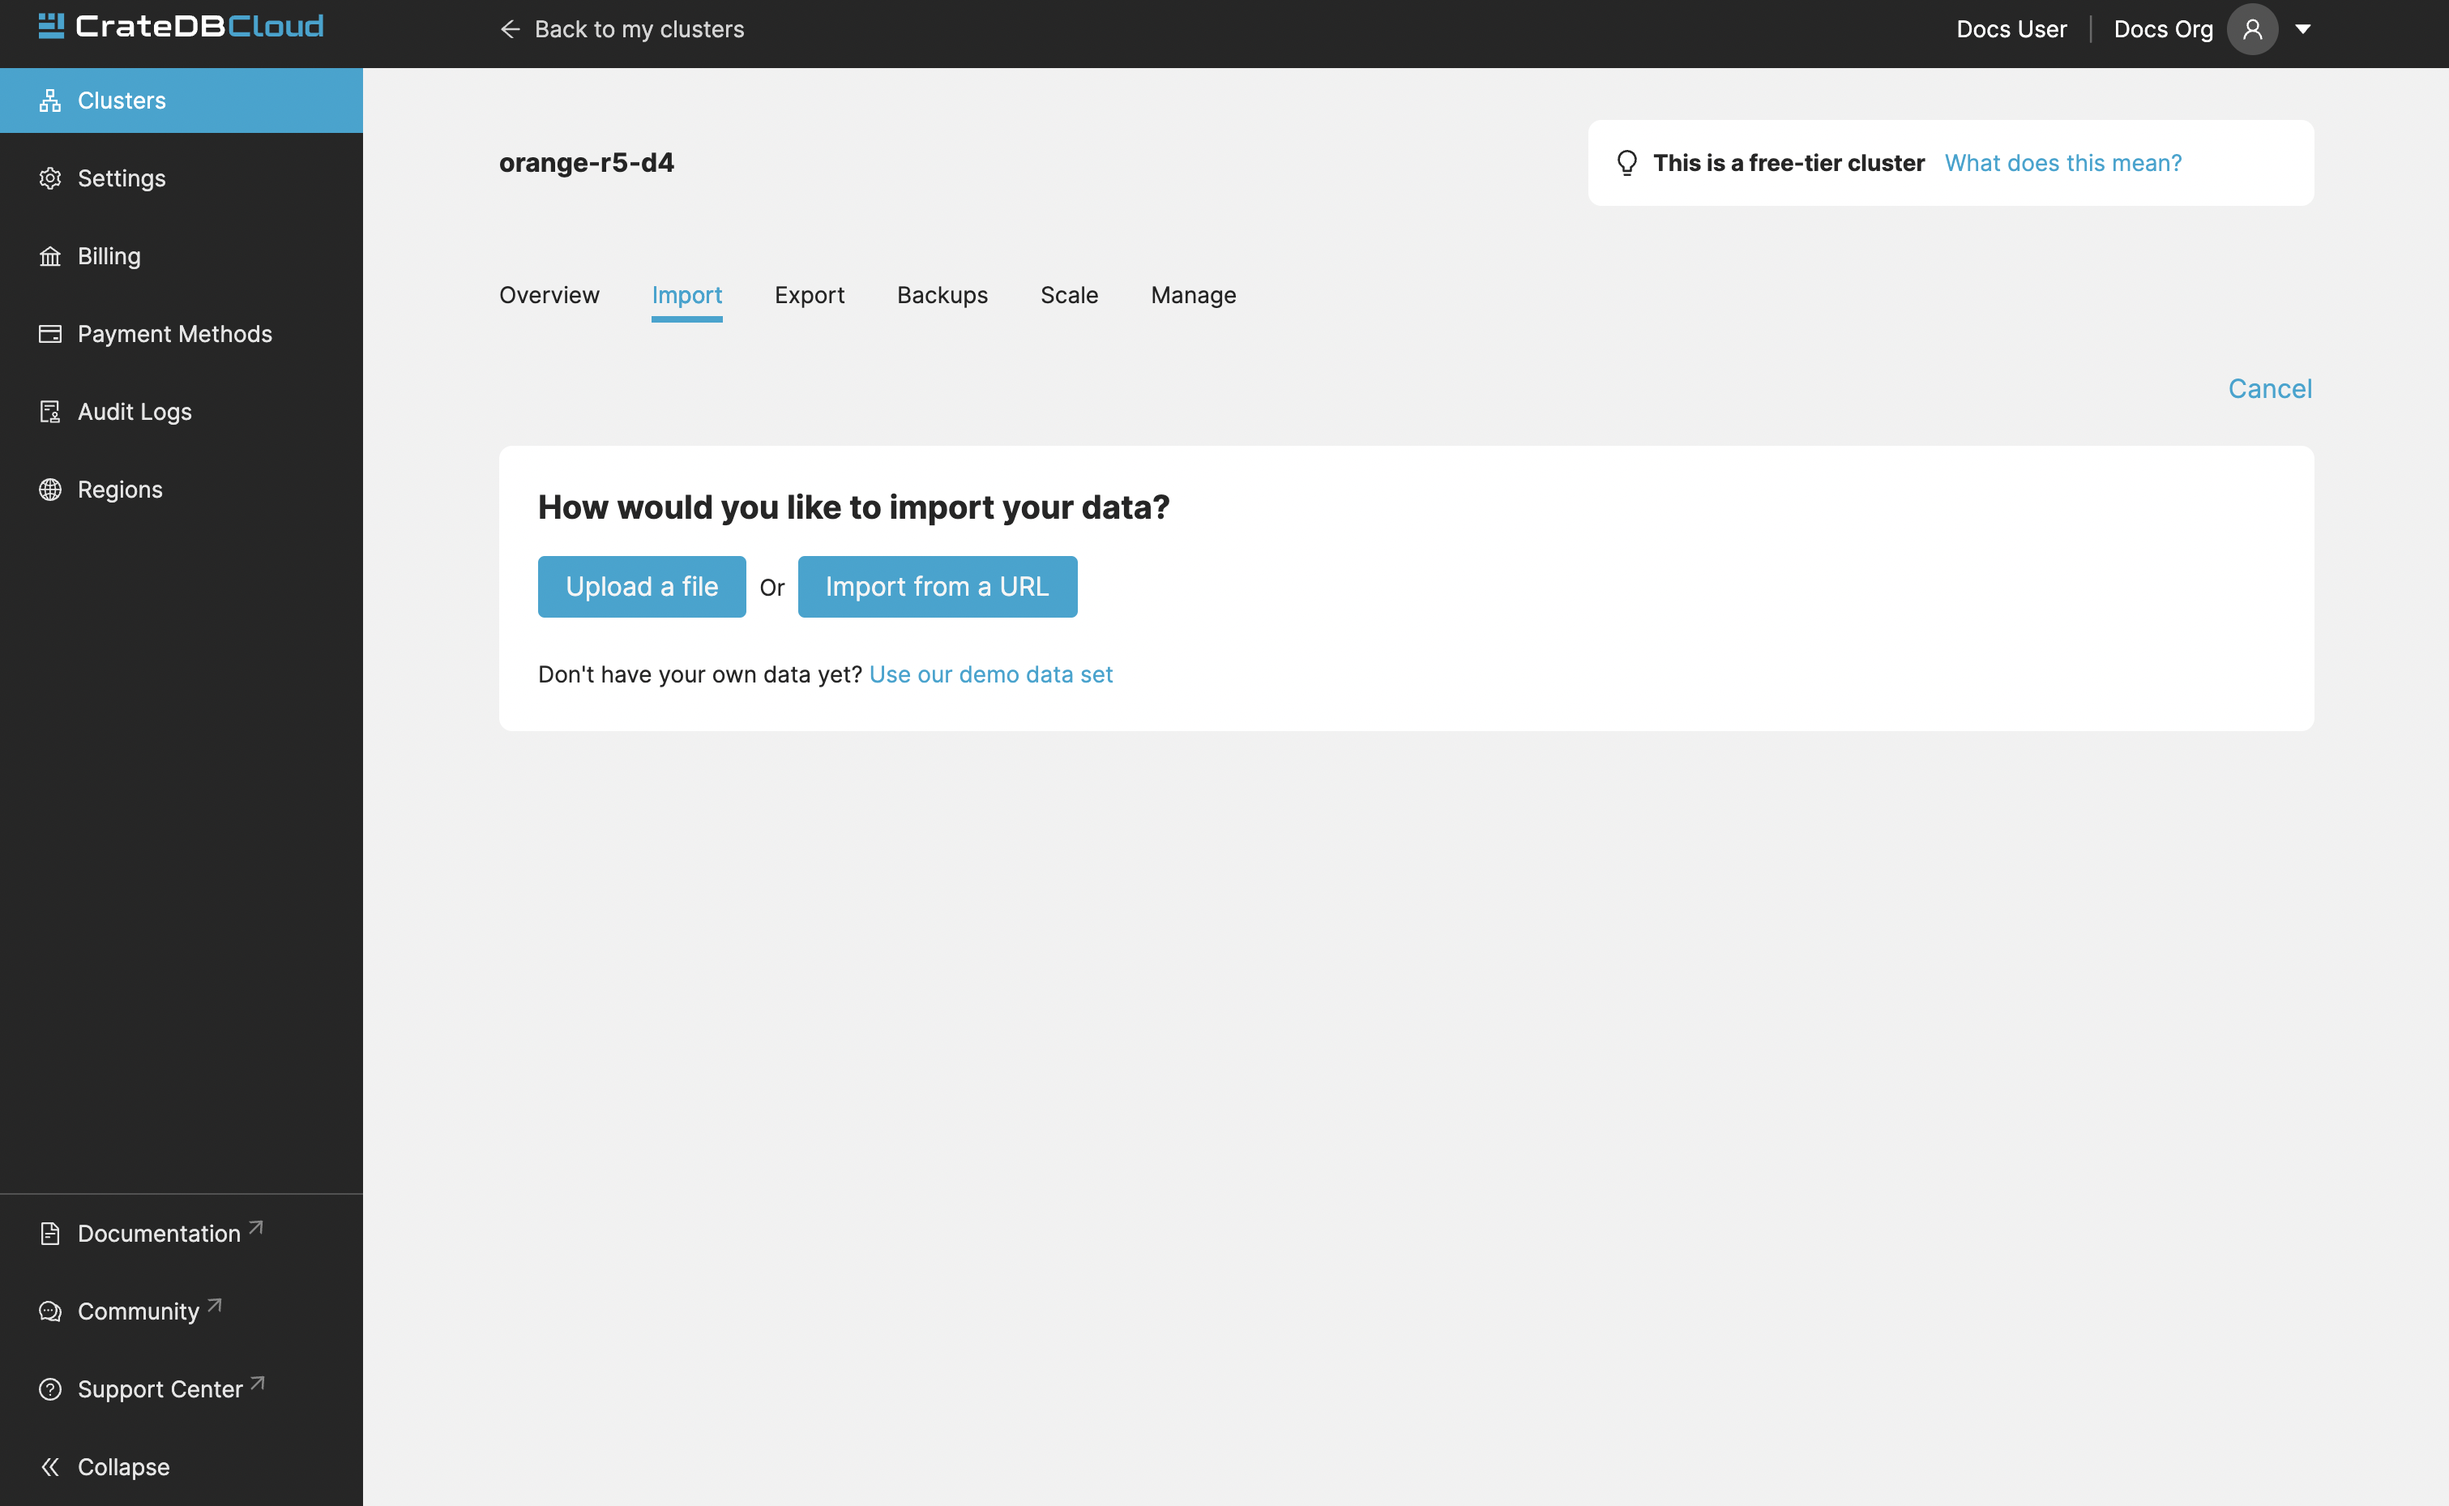
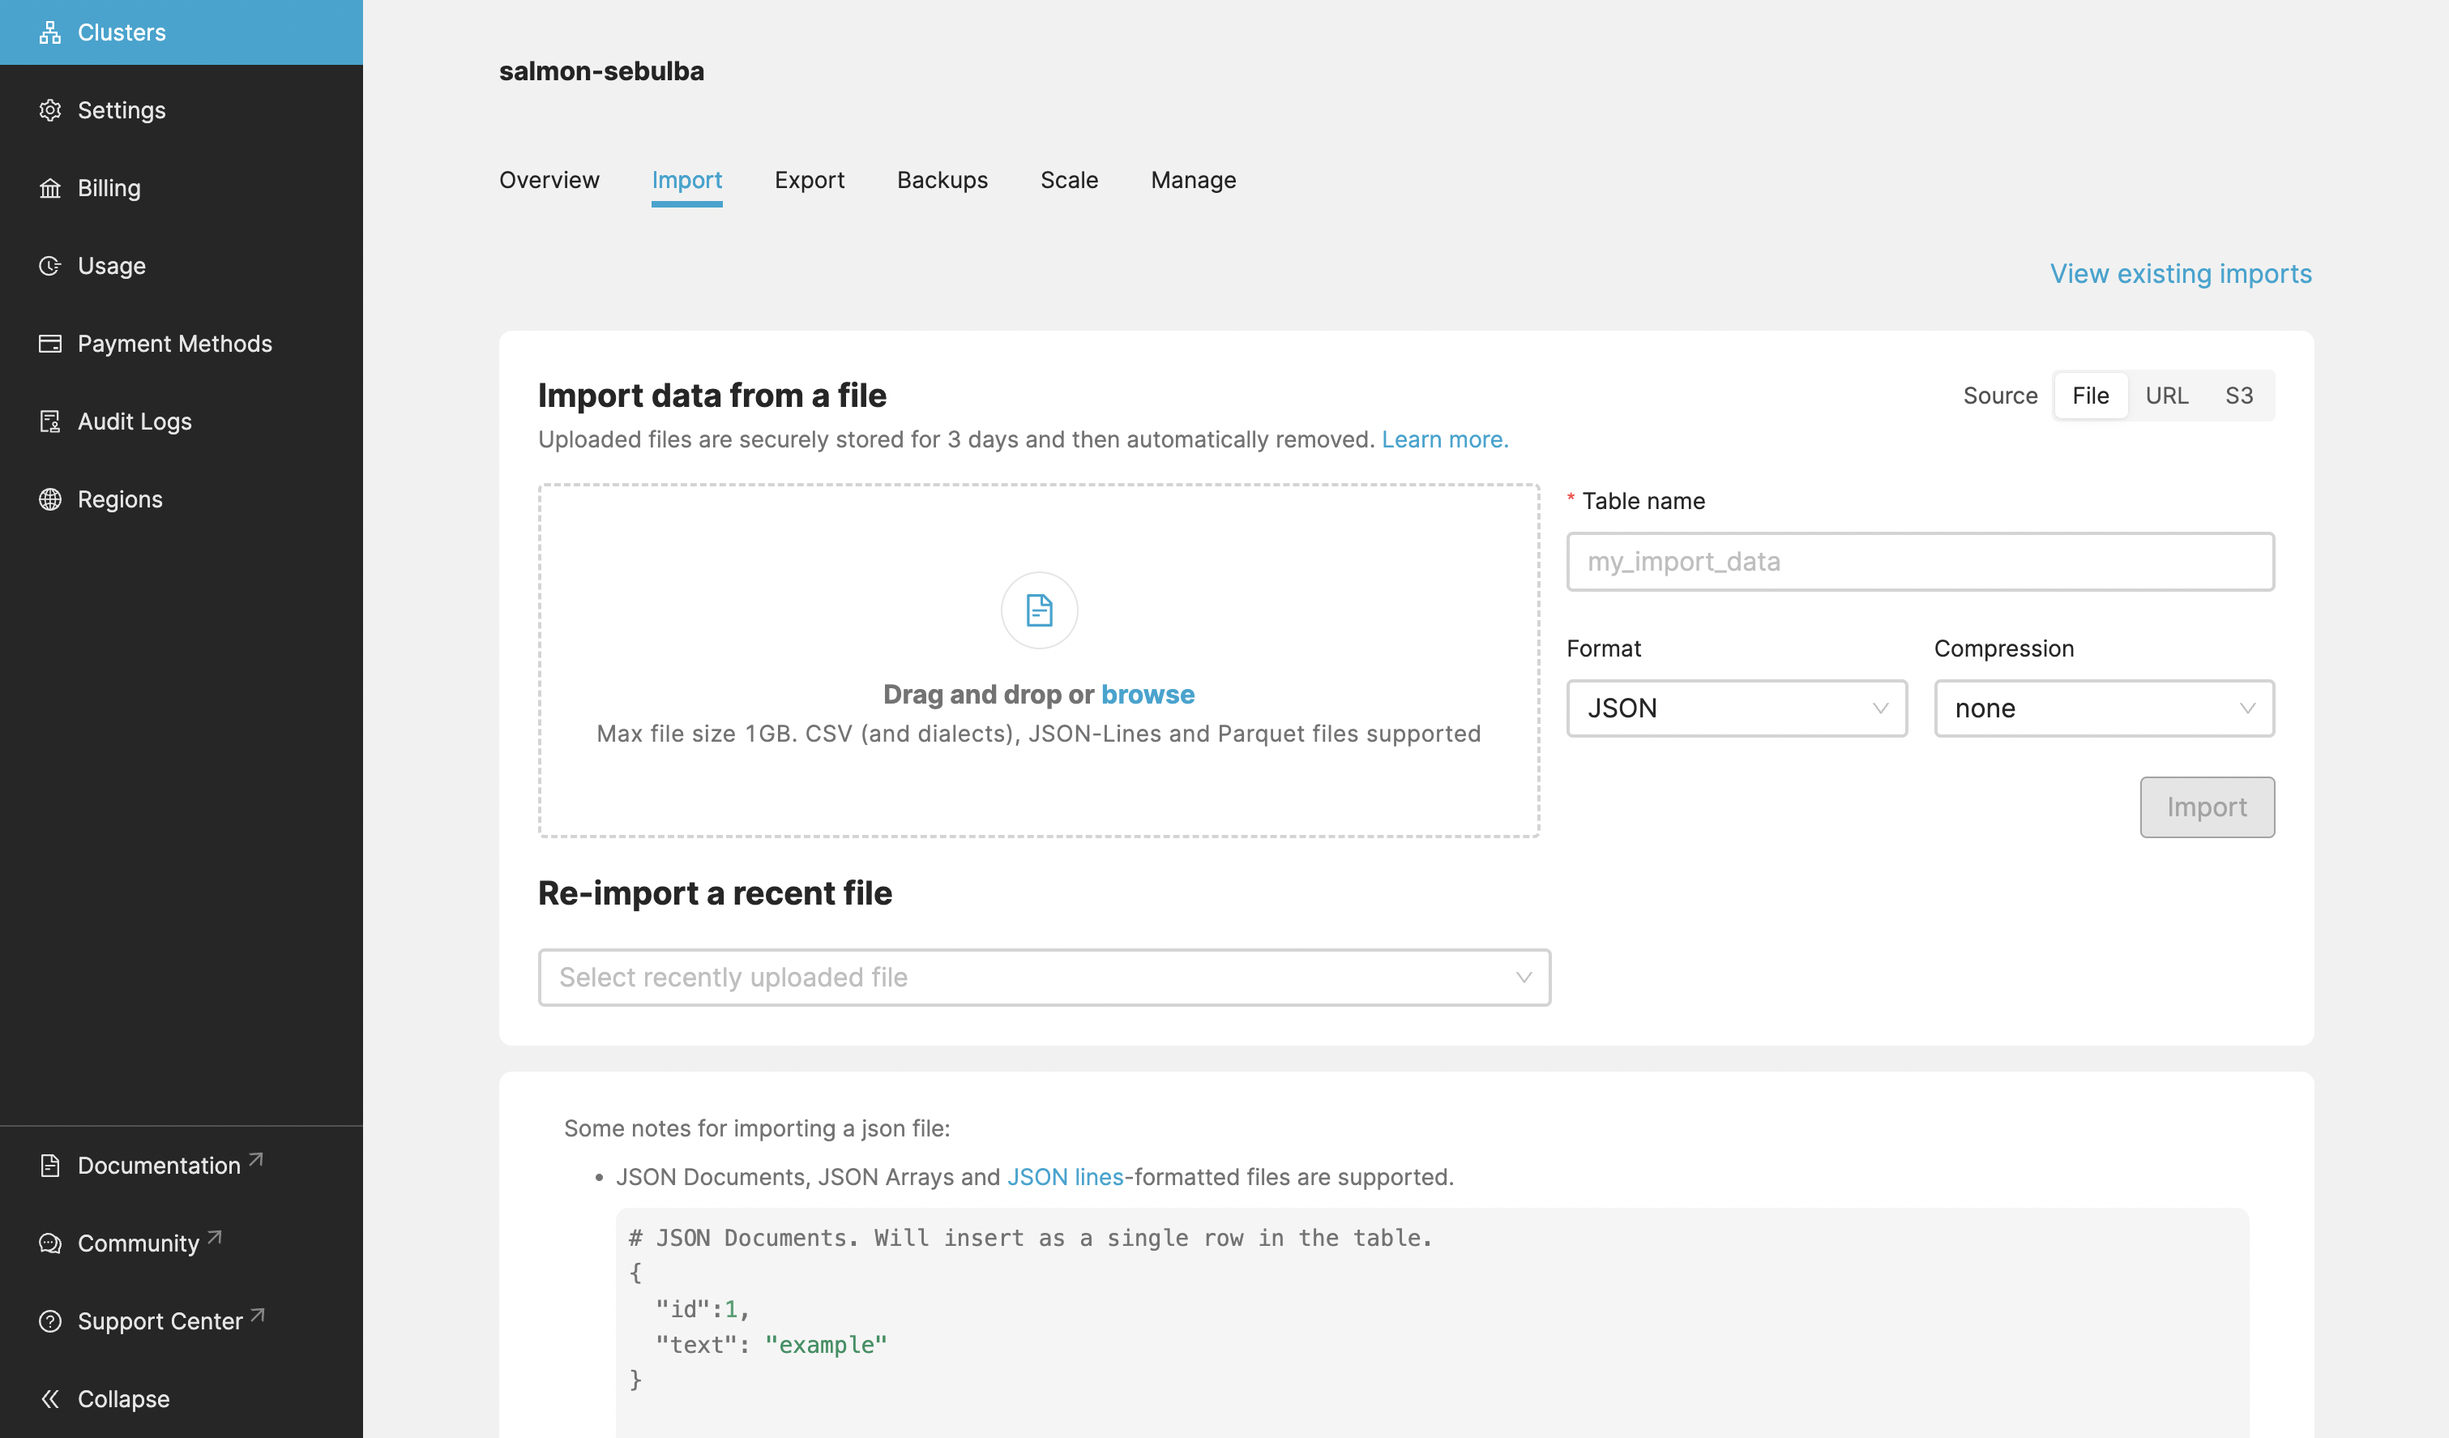
Add documentation on S3 imports (#34)
* Update overview.rst

---------

diff --git a/docs/reference/overview.rst b/docs/reference/overview.rst
@@ -281,10 +281,10 @@ Import
 The first thing you see in the "Import" tab is the history of your imports. 
 You can see whether you imported from a URL or from a file, file name, table
 into which you imported, date, and status. By clicking "Show details" you can
-display the size and the number of records imported.
+display details of a particular import.
 
-Clicking the "Import new data" button will bring up a choice between URL 
-import and file import.
+Clicking the "Import new data" button will bring up a choice between various
+import methods.
 
 .. image:: ../_assets/img/cluster-import-tab-choice.png
    :alt: Cloud Console cluster upload choice
@@ -314,6 +314,41 @@ Gzip compressed files are also supported.
 
 .. image:: ../_assets/img/cluster-import-tab-url.png
    :alt: Cloud Console cluster upload from URL
+
+.. _overview-cluster-import-s3:
+
+Import from private S3 bucket
+~~~~~~~~~~~~~~~~~~~~~~~~~~~~~
+
+CrateDB Cloud allows convenient imports directly from S3-compatible storage. 
+To import a file form bucket, provide the name of your bucket, and path to
+the file. The S3 Access Key ID, and S3 Secret Access Key are also needed. You can
+also specify the endpoint for non-AWS S3 buckets. Keep in mind that you may be
+charged for egress, depending on your provider. There is also a limit of 10 GiB
+for S3 imports. The usual file formats are supported.
+
+.. image:: ../_assets/img/cluster-import-tab-s3.png
+   :alt: Cloud Console cluster upload from S3
+
+.. NOTE::
+
+   It's important to make sure that you have the right permissions to access objects in the specified bucket. For AWS S3, your user should have a policy that allows GetObject access, for example:
+
+      .. code-block:: console
+
+       {
+        "Version": "2012-10-17",
+        "Statement": [
+        {
+            "Sid": "AllowGetObject",
+            "Effect": "Allow",
+            "Principal": {
+                "AWS": "*"
+            },
+            "Action": "s3:GetObject",
+            "Resource": "arn:aws:s3:::EXAMPLE-BUCKET-NAME/*"
+        }]
+        }
 
 .. _overview-cluster-import-file:
 

diff --git a/docs/reference/user-roles.rst b/docs/reference/user-roles.rst
@@ -115,4 +115,4 @@ More information on CrateDB user privileges can be found in the :ref:`CrateDB
 documentation on privileges <crate-reference:administration-privileges>`.
 
 
-.. _AL privileges: https://crate.io/docs/crate/reference/en/latest/admin/privileges.html#al
+.. _AL privileges: https://cratedb.com/docs/crate/reference/en/latest/admin/privileges.html#al
